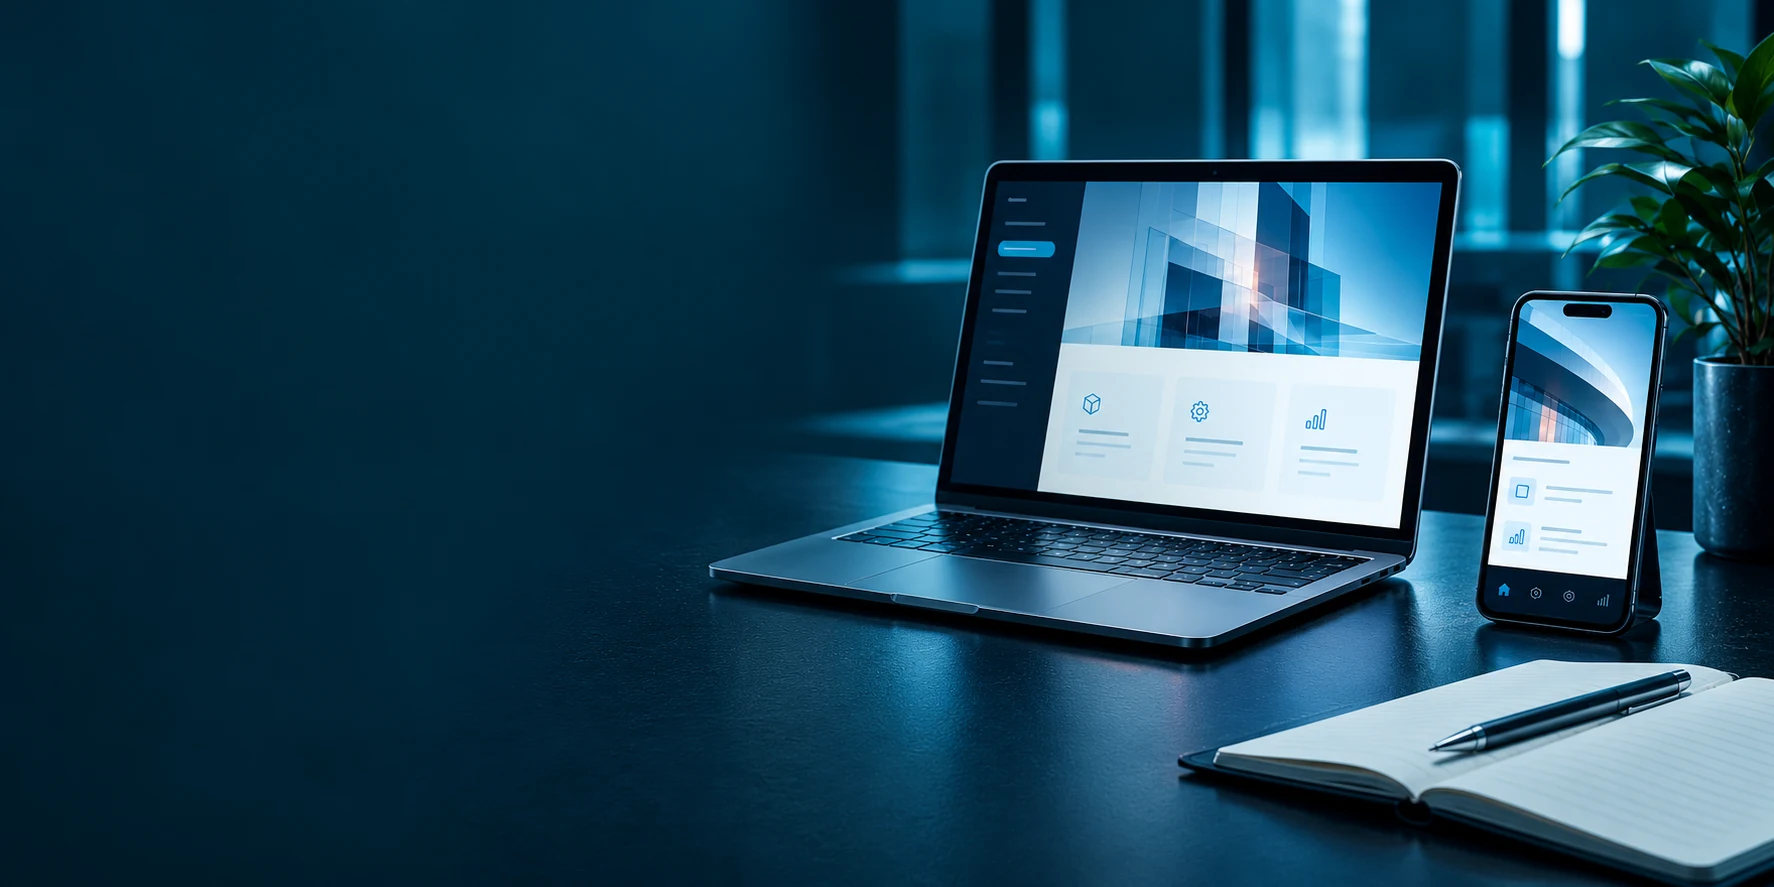
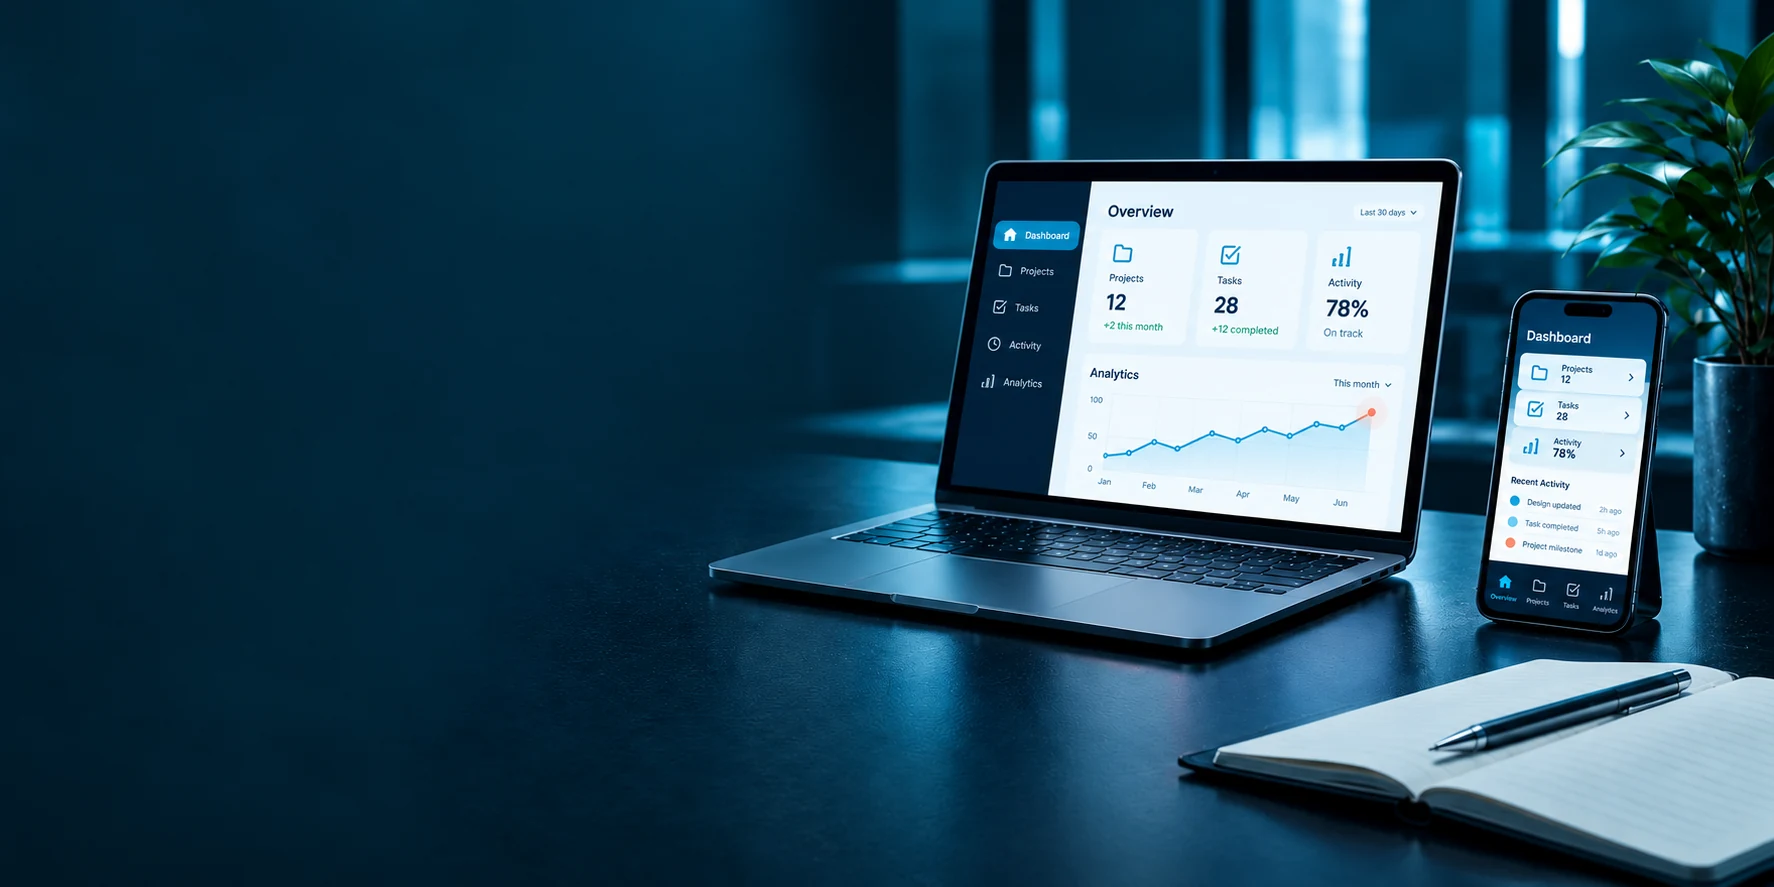
update website

diff --git a/app/page.jsx b/app/page.jsx
@@ -114,7 +114,7 @@ export default function Home() {
     <main className="home-main">
       <section className="hero home-hero" id="banner">
         <div className="hero-copy"><h1>Web development<br/>software and<br/><em>cloud insights.</em></h1><p>Actionable guidance for planning, building, improving, and maintaining websites, online stores, mobile apps, and internal software for growing businesses.</p><div className="hero-actions"><a className="button coral" href={whatsappUrl} target="_blank" rel="noopener noreferrer">Connect on WhatsApp <Arrow/></a><a className="hero-secondary" href="#services">Explore this page <Arrow/></a></div></div>
-        <div className="hero-media web-product-media"><Image src="/homepage-hero-dashboard.png" alt="Laptop and smartphone displaying a cyan project dashboard with overview, projects, tasks, activity, and analytics beside an open notebook on a dark teal workspace" fill priority unoptimized sizes="(max-width: 980px) 100vw, 100vw"/></div>
+        <div className="hero-media web-product-media"><Image src="/homepage-hero-v2.webp" alt="Laptop and smartphone displaying a cyan project dashboard with overview, projects, tasks, activity, and analytics beside an open notebook on a dark teal workspace" fill priority unoptimized sizes="(max-width: 980px) 100vw, 100vw"/></div>
       </section>
 
       <ClientShowcase/>
